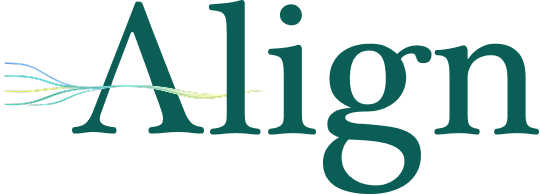
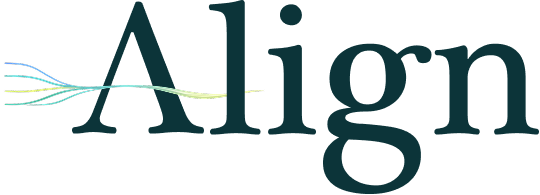
new

Changed region(s): [[0.1185, 0.0, 1.0, 1.0], [0.5037, 0.0, 0.563, 0.1231]]

diff --git a/src/components/align-wordmark.tsx b/src/components/align-wordmark.tsx
@@ -1,48 +1,22 @@
+"use client";
+
+import Image from "next/image";
+
 type Props = {
   className?: string;
 };
 
-/**
- * Vector wordmark — matches app serif (Lora) and keeps wave detail sharp at header size.
- */
+/** Full horizontal wordmark (type + wave graphic) — raster for Figma fidelity. */
 export function AlignWordmark({ className }: Props) {
   return (
-    <span
-      className={`relative inline-block leading-none font-serif text-[1.35rem] font-semibold tracking-[-0.04em] text-align-forest md:text-[1.5rem] ${className ?? ""}`}
-    >
-      <svg
-        className="pointer-events-none absolute left-[0.02em] top-[0.5em] h-[0.52em] w-[0.92em] -translate-y-1/2"
-        viewBox="0 0 48 22"
-        fill="none"
-        xmlns="http://www.w3.org/2000/svg"
-        aria-hidden
-      >
-        <path
-          d="M1 11.5C9 7 15 14 22 10.5c6-3 12 2 17 1.5 5-0.5 8-3 9.5-2"
-          stroke="#62a3c9"
-          strokeWidth="2"
-          strokeLinecap="round"
-        />
-        <path
-          d="M1 14.5C10 9 16 17 24 13c5-3 10 1 14.5 0.5C43 13 45 11 46.5 11.5"
-          stroke="#3d9279"
-          strokeWidth="2"
-          strokeLinecap="round"
-        />
-        <path
-          d="M1 8C10 13 15 5 23 8.5c6 2.5 11-1 16-0.5 5 0.5 8.5 2.5 10 2"
-          stroke="#7bb8a6"
-          strokeWidth="2"
-          strokeLinecap="round"
-        />
-        <path
-          d="M1 17C8 12.5 14 18 21 15c5-2 10 0.5 15 0 5-0.5 9-3 12-2"
-          stroke="#cbb255"
-          strokeWidth="2"
-          strokeLinecap="round"
-        />
-      </svg>
-      Align
-    </span>
+    <Image
+      src="/brand/align-wordmark.png"
+      alt=""
+      width={540}
+      height={195}
+      className={`h-7 w-auto max-w-[min(100%,10rem)] shrink-0 object-contain object-left md:h-8 md:max-w-[11.5rem] ${className ?? ""}`}
+      priority
+      aria-hidden
+    />
   );
 }

diff --git a/src/app/layout.tsx b/src/app/layout.tsx
@@ -27,6 +27,10 @@ const alignSerif = Lora({
 export const metadata: Metadata = {
   title: "Align",
   description: "Metabolic intelligence app",
+  icons: {
+    icon: "/brand/align-icon.png",
+    apple: "/brand/align-icon.png",
+  },
 };
 
 export default async function RootLayout({
